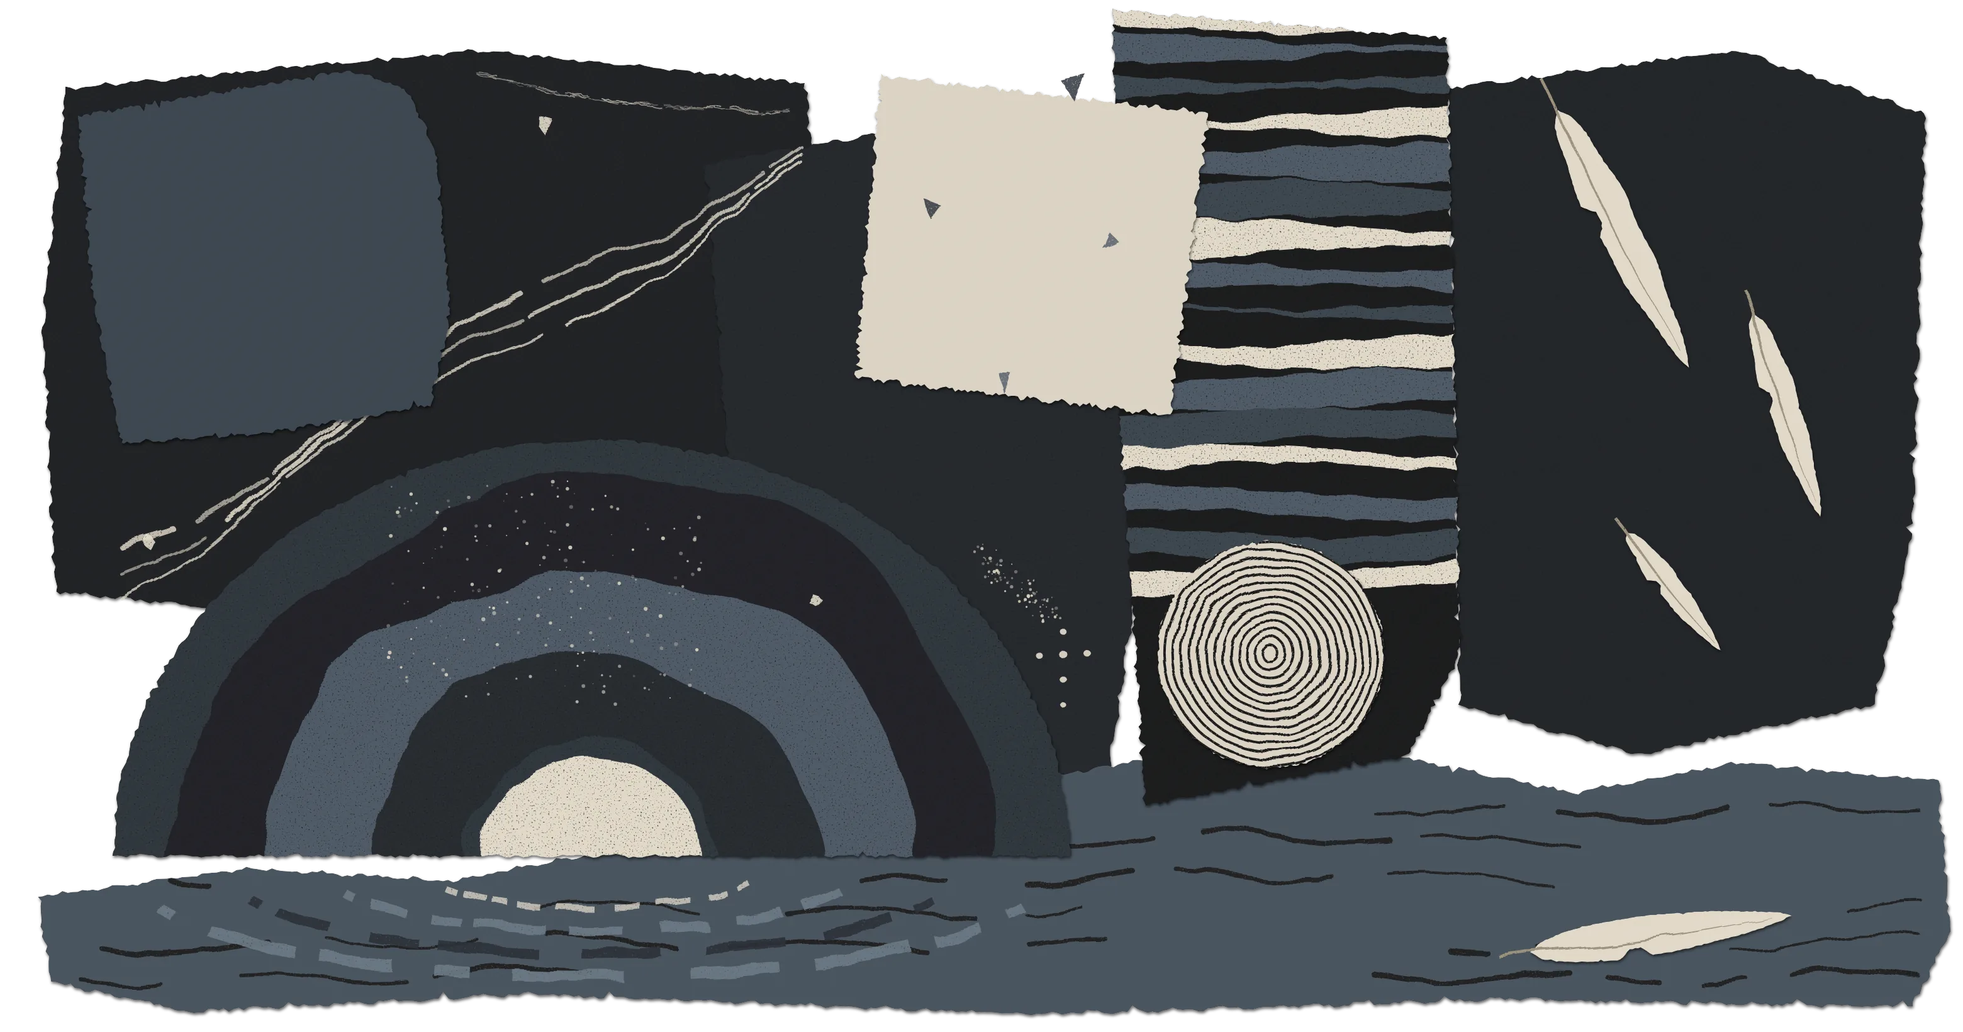
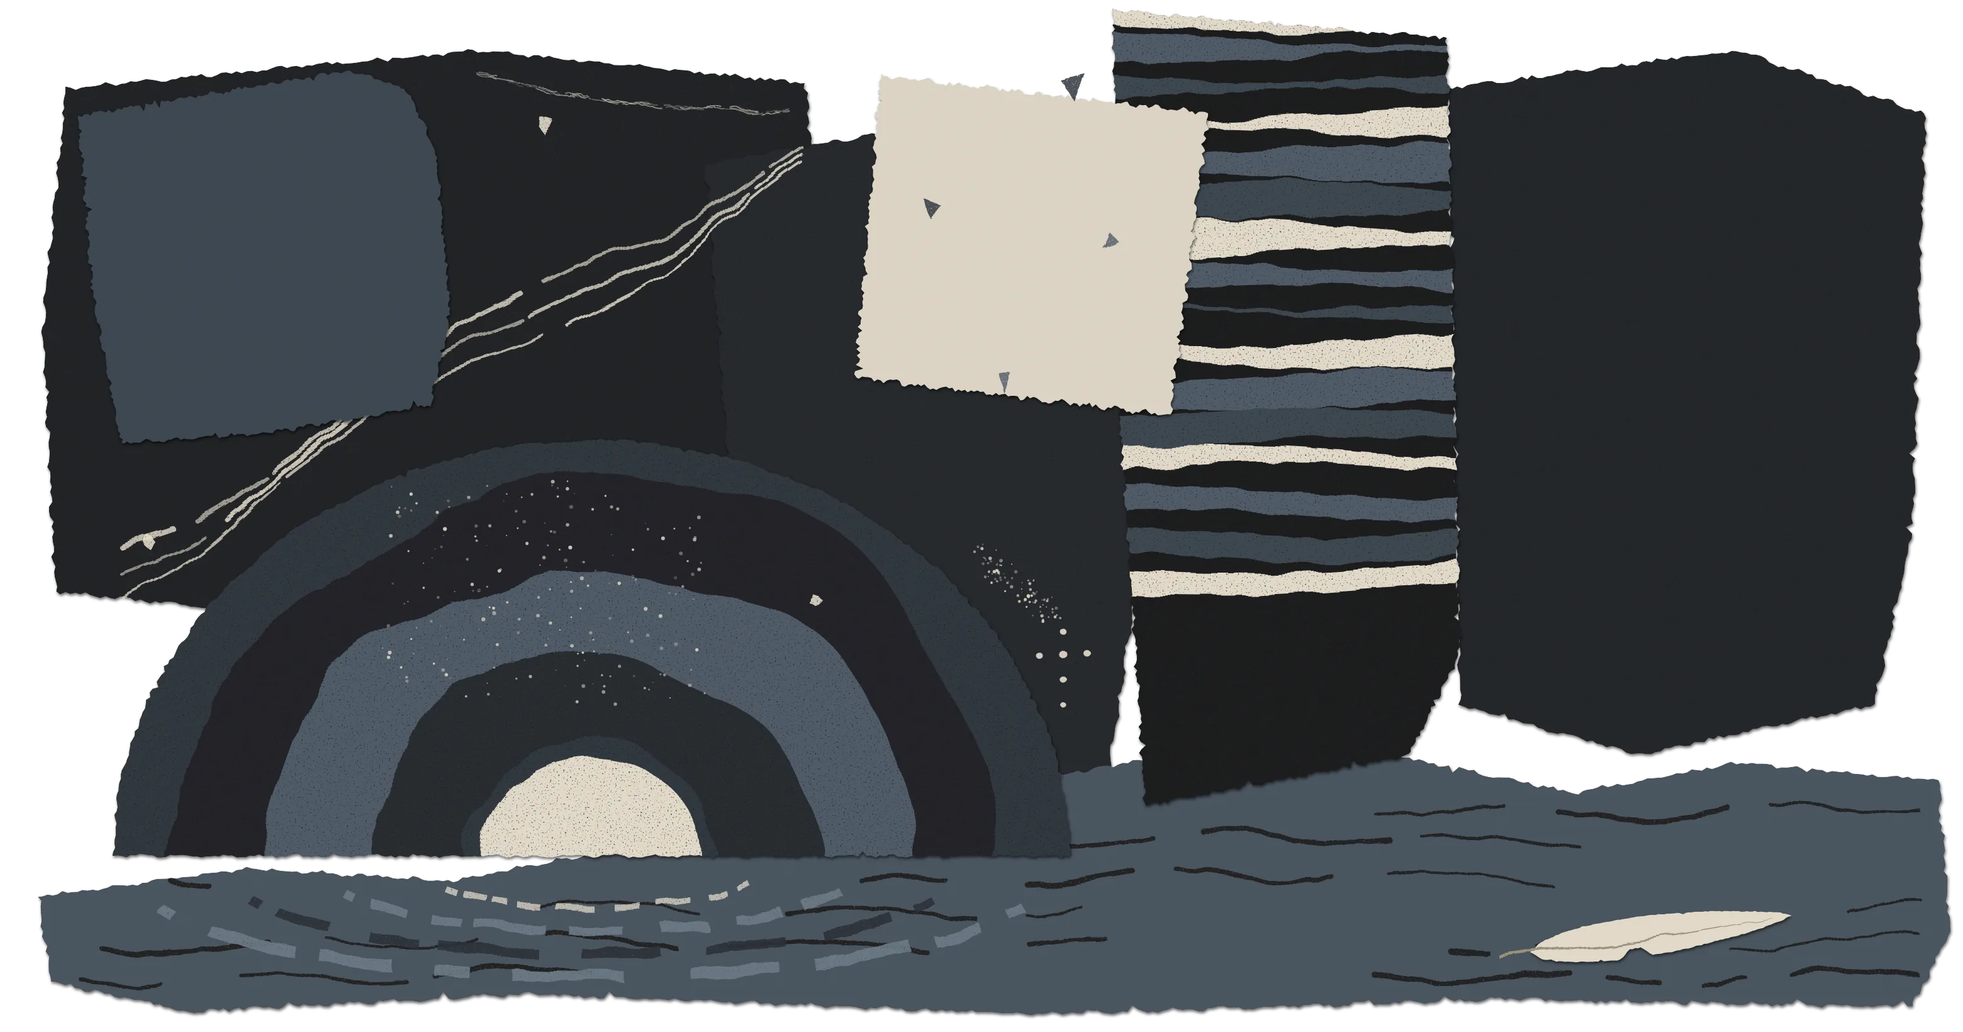
pliocene-coast: feathers drift onto the river, powder washes away
Two of the feathers now let go and drift down onto the river, sending
out hand-drawn rings of water as they land. Crumbled powder slides off
the rim of the dark rings into the river and dissolves there instead of
heaping up. The black and white disc turns like a record let go, and
again under the pointer. Replay puts all of it back.

Claude-Session: https://claude.ai/code/session_01Wb5bFrUxPpaySNQ4iWWfdK

Changed region(s): [[0.5907, 0.5287, 0.7151, 0.7463], [0.7772, 0.0933, 0.9327, 0.4976], [0.8083, 0.4976, 0.8705, 0.622]]

diff --git a/components/pliocene-coast/src/pliocene-coast.js b/components/pliocene-coast/src/pliocene-coast.js
@@ -3,7 +3,8 @@
  * A torn paper collage of what the Galactic Railroad might have left in the ground: bone chips,
  * a sand of stars, a coal-sack hole with a piece of amber at its floor, a railway that winds out
  * from one point and breaks off. When it comes on screen everything moves together for a few
- * seconds and settles; touch the bone chips and they keep crumbling into powder that stays.
+ * seconds and settles, the feathers drifting down onto the river; touch the bone chips and they crumble
+ * into powder that slides into the river and dissolves in rings of water.
  *
  * Usage:
  *   <script type="module" src="components/pliocene-coast/src/pliocene-coast.js"></script>
@@ -26,8 +27,11 @@ const FONT = 'https://fonts.googleapis.com/css2?family=EB+Garamond:wght@500&disp
 const W = 1560, H = 820;
 const INTRO = 8000;               // everything moves together this long, then settles
 const CHIPS = [[520, 200, 44], [600, 268, 36], [668, 330, 30], [724, 384, 22], [762, 424, 14]];
-const RINGS = { cx: 470, cy: 680, rx: 380, ry: 330 }; // the coal sack: powder settles on its rim
-const FLOOR = 640;
+const RINGS = { cx: 470, cy: 680, rx: 380, ry: 330 }; // the coal sack: powder lands on its rim and slides off into the river
+// where each feather comes to rest on the river, lying almost flat, and when it lets go (s) and how long it falls (s)
+// the first, longest feather stays on its sheet; the other two fall
+const DISC = { x: 1010, y: 520, r: 92 }; // the black and white rings: spun once when it comes into view, and again under the pointer
+const DRIFT = [null, { x: 1150, y: 690, a: -0.1, at: 0.6, fall: 10.5 }, { x: 1395, y: 788, a: -0.05, at: 2.2, fall: 9.5 }];
 
 
 /* shown beside the collage when it is opened full size; every line our own, nothing quoted */
@@ -38,8 +42,8 @@ const NOTES = {
     ['The coast', 'Halfway along the line they get off at a riverbank of crystal sand, where a professor is digging out the bones of an animal from more than a million years ago. Here that dig is the whole picture: chips of bone, strata, and the sand they lie in.'],
     ['The hole', 'Near the end of the journey there is a black hole in the sky that nothing comes back from. The big dark rings are that hole; at its floor is the one warm thing, a piece of amber, for the scorpion who wished its body could burn as a light for others.'],
     ['The railway', 'The line winds out from a single point and breaks off before it finishes, the way the journey does.'],
-    ['The river and the feathers', 'Birds are caught along the river and come apart in your hand like sweets. A few feathers are falling; one has reached the water, and under the rings the river holds their broken reflection.'],
-    ['How it moves', 'When it comes into view everything moves at once for a few seconds and then settles. Touch a bone chip and it crumbles into powder that stays where it falls. Replay puts it all back.'],
+    ['The river and the feathers', 'Birds are caught along the river and come apart in your hand like sweets. A few feathers fall onto the water, and under the rings the river holds their broken reflection.'],
+    ['How it moves', 'When it comes into view everything moves at once for a few seconds and then settles. The feathers let go one by one and drift down onto the river. Touch a bone chip and it crumbles; the powder slides off the rim into the river and is gone, in small rings of water. Replay puts it all back.'],
   ],
 };
 
@@ -64,7 +68,13 @@ function run(root) {
   function start(svg) {
     const NS = 'http://www.w3.org/2000/svg';
     const grow = svg.querySelector('.grow'), len = grow.getTotalLength();
-    const amber = svg.querySelector('.amin'), sand = svg.querySelector('.sand-in'), powder = svg.querySelector('.powder');
+    const amber = svg.querySelector('.amin'), sand = svg.querySelector('.sand-in'), powder = svg.querySelector('.powder'), ripples = svg.querySelector('.ripples');
+    const disc = svg.querySelector('.disc');
+    let spin = 0, turn = 0;
+    const feathers = [...svg.querySelectorAll('.feather')].filter((el, i) => DRIFT[i]).map(el => {
+      const d = DRIFT[[...svg.querySelectorAll('.feather')].indexOf(el)];
+      return { el, x: +el.dataset.x, y: +el.dataset.y, a: +el.dataset.a, dx: d.x, dy: d.y, da: d.a, at: d.at, fall: d.fall, landed: false };
+    });
     const chips = [...svg.querySelectorAll('.chip')].map((el, i) => {
       const [cx, cy, R] = CHIPS[i];
       el.style.transformBox = 'view-box'; el.style.transformOrigin = `${cx}px ${cy}px`;
@@ -75,7 +85,7 @@ function run(root) {
     if (reduce) { grow.style.strokeDashoffset = 0; return; }
     grow.style.strokeDashoffset = len;
 
-    let parts = [], heap = {};
+    let parts = [], rings = [];
     let t0 = null, last = 0, raf = 0, visible = false, px = -1e4, py = -1e4, ax = 0, ay = 0;
 
     const setChip = c => { c.el.style.transform = `scale(${(0.15 + 0.85 * c.life).toFixed(3)})`; c.el.style.opacity = c.life < 0.08 ? 0 : 1; };
@@ -85,23 +95,60 @@ function run(root) {
       el.setAttribute('fill', '#e2dac9');
       el.setAttribute('opacity', (0.45 + Math.random() * 0.5).toFixed(2));
       powder.appendChild(el);
-      parts.push({ el, x, y, vx: (Math.random() - 0.4) * 22, vy: Math.random() * 10, done: false });
+      parts.push({ el, x, y, vx: (Math.random() - 0.4) * 22, vy: Math.random() * 10, on: false, wet: 0, op: +el.getAttribute('opacity') });
     };
     const shed = (c, chance) => {
       if (Math.random() > chance) return;
       const a = Math.random() * Math.PI * 2;
       spawn(c.cx + Math.cos(a) * c.R * c.life * 0.9, c.cy + Math.sin(a) * c.R * c.life * 0.55);
     };
-    const surface = bin => ground(bin * 3) - (heap[bin] || 0);
-    const ground = x => {
-      const u = (x - RINGS.cx) / RINGS.rx;
-      return Math.abs(u) < 1 ? RINGS.cy - RINGS.ry * Math.sqrt(1 - u * u) - 2 : FLOOR;
+    const inside = x => Math.abs((x - RINGS.cx) / RINGS.rx) < 0.985;
+    const ground = x => { const u = (x - RINGS.cx) / RINGS.rx; return RINGS.cy - RINGS.ry * Math.sqrt(Math.max(0, 1 - u * u)) - 2; };
+    // a ring of water spreading out from where something touched the river
+    // a ring of water, drawn by hand: a few broken arcs of uneven weight that spread out and fade
+    const RIPPLE_INK = '#1d2126', RIPPLE_STYLE = 'cut';
+    const ripple = (x, y, size, count, life = 2.4, width = 1.3, gap = 0.45) => {
+      if (rings.length > 24 && size < 60) return;
+      for (let i = 0; i < count; i++) {
+        const g = document.createElementNS(NS, 'g');
+        g.setAttribute('opacity', 0);
+        // arcs on a unit circle, squashed later; each arc its own length, gaps between, a little wobble
+        let a0 = Math.random() * Math.PI * 2;
+        const end = a0 + Math.PI * 2;
+        while (a0 < end - 0.3) {
+          const a1 = Math.min(end, a0 + (RIPPLE_STYLE === 'cut' ? 0.35 + Math.random() * 0.9 : 0.12 + Math.random() * 0.22));
+          const pts = [];
+          for (let a = a0; a <= a1 + 1e-6; a += 0.06) {
+            const w = 1 + (Math.random() - 0.5) * 0.04 + Math.sin(a * 5 + i) * 0.02;
+            pts.push(`${(Math.cos(a) * w).toFixed(3)} ${(Math.sin(a) * w).toFixed(3)}`);
+          }
+          const seg = document.createElementNS(NS, 'path');
+          seg.setAttribute('d', 'M' + pts.join(' L'));
+          seg.setAttribute('fill', 'none');
+          seg.setAttribute('stroke', RIPPLE_STYLE === 'cut' ? RIPPLE_INK : '#7f8c97');
+          seg.setAttribute('stroke-linecap', 'round');
+          seg.setAttribute('vector-effect', 'non-scaling-stroke');
+          seg.setAttribute('stroke-width', (width * (RIPPLE_STYLE === 'cut' ? 1.3 : 2.2) * (0.6 + Math.random() * 0.8)).toFixed(2));
+          g.appendChild(seg);
+          a0 = a1 + 0.15 + Math.random() * (RIPPLE_STYLE === 'cut' ? 0.5 : 0.25);
+        }
+        ripples.appendChild(g);
+        rings.push({ el: g, x, y, size, life, age: -i * gap });
+      }
+    };
+    const placeFeather = (f, t) => {
+      // a slow fall that eases in and out, swinging from side to side less and less, turning to lie on the water
+      const e = t < 0.5 ? 2 * t * t : 1 - Math.pow(-2 * t + 2, 2) / 2;
+      const sway = Math.sin(t * Math.PI * 3.2) * (1 - t);
+      const x = f.x + (f.dx - f.x) * e + sway * 34, y = f.y + (f.dy - f.y) * e;
+      const rot = (f.a + (f.da - f.a) * e + sway * 0.35) * 180 / Math.PI - f.a * 180 / Math.PI;
+      f.el.setAttribute('transform', `translate(${(x - f.x).toFixed(1)} ${(y - f.y).toFixed(1)}) rotate(${rot.toFixed(2)} ${f.x} ${f.y})`);
     };
 
     function frame(now) {
       raf = 0;
       if (!visible) return;
-      if (t0 === null) t0 = now;
+      if (t0 === null) { t0 = now; spin = 110; }
       const dt = Math.min(0.05, (now - (last || now)) / 1000); last = now;
       const k = Math.min(1, Math.max(0, (now - t0) / INTRO));
       let busy = k < 1;
@@ -131,32 +178,59 @@ function run(root) {
         c.life = Math.max(0, c.life - 0.32 * dt * (30 / c.R));
         shed(c, 0.9); shed(c, 0.9); setChip(c); busy = true;
       }
-      // powder falls and stays where it lands
+      // powder falls onto the rim of the rings, slides down it into the river and dissolves there
       for (const p of parts) {
-        if (p.done) continue;
         busy = true;
-        p.vy += 260 * dt; p.vx *= 0.985; p.x += p.vx * dt; p.y += p.vy * dt;
-        const bin = Math.round(p.x / 3), floor = surface(bin);
-        if (p.y >= floor) {
-          // like sand, a grain on a steep heap rolls off to the lower side before it settles
-          let best = bin;
-          for (let j = -3; j <= 3; j++) if (j && surface(bin + j) - floor > 2.4 * Math.abs(j) && surface(bin + j) > surface(best)) best = bin + j;
-          if (best !== bin) { p.x = best * 3; p.y = Math.min(p.y, surface(best) - 0.5); p.vy = 0; }
-          else {
-            p.y = floor; p.done = true;
-            for (let j = -3; j <= 3; j++) heap[bin + j] = (heap[bin + j] || 0) + 0.45 * Math.exp(-j * j / 4);
-          }
+        if (p.wet) {
+          p.wet += dt; p.x += 6 * dt;
+          p.el.setAttribute('opacity', (p.op * Math.max(0, 1 - p.wet / 1.4)).toFixed(2));
+          if (p.wet > 1.4) { p.el.remove(); p.gone = true; continue; }
+        } else if (p.on) {
+          const dir = Math.sign(p.x - RINGS.cx) || 1;
+          p.vx = Math.min(140, Math.abs(p.vx) + 90 * dt) * dir;
+          p.x += p.vx * dt; p.y = ground(p.x);
+          if (!inside(p.x)) { p.wet = 0.001; p.y = RINGS.cy + 4 + Math.random() * 8; if (Math.random() < 0.12) ripple(p.x, p.y, 16, 1); }
+        } else {
+          p.vy += 260 * dt; p.vx *= 0.985; p.x += p.vx * dt; p.y += p.vy * dt;
+          if (inside(p.x) && p.y >= ground(p.x)) { p.on = true; p.y = ground(p.x); p.vx = 10; }
+          else if (!inside(p.x) && p.y >= RINGS.cy + 4) { p.wet = 0.001; if (Math.random() < 0.12) ripple(p.x, p.y, 16, 1); }
         }
         p.el.setAttribute('cx', p.x.toFixed(1)); p.el.setAttribute('cy', p.y.toFixed(1));
       }
+      if (parts.some(p => p.gone)) parts = parts.filter(p => !p.gone);
+      // the feathers let go one after another and drift down onto the river
+      const secs = (now - t0) / 1000;
+      for (const f of feathers) {
+        if (f.landed) continue;
+        busy = true;
+        const t = Math.min(1, Math.max(0, (secs - f.at) / f.fall));
+        placeFeather(f, t);
+        if (t >= 1) { f.landed = true; ripple(f.dx, f.dy + 4, 190, 4, 4.2, 1.9, 0.6); }
+      }
+      // the disc turns like a record let go: pushed while the pointer rests on it, slowing to a stop on its own
+      if (Math.hypot(px - DISC.x, py - DISC.y) < DISC.r) spin = Math.min(130, spin + 150 * dt);
+      spin *= Math.exp(-0.45 * dt);
+      if (spin > 0.4) { turn = (turn + spin * dt) % 360; disc.setAttribute('transform', `rotate(${turn.toFixed(2)} ${DISC.x} ${DISC.y})`); busy = true; }
+      else spin = 0;
+      // rings of water spread and fade
+      for (const r of rings) {
+        r.age += dt;
+        if (r.age < 0) { r.el.setAttribute('opacity', 0); continue; }
+        const q = r.age / r.life, rx = 6 + r.size * (1 - Math.pow(1 - q, 2));
+        r.el.setAttribute('transform', `translate(${r.x} ${r.y}) scale(${rx.toFixed(1)} ${(rx * 0.22).toFixed(1)})`);
+        r.el.setAttribute('opacity', Math.max(0, Math.min(1, q * 8) * Math.pow(1 - q, 1.3)).toFixed(2));
+        if (q >= 1) { r.el.remove(); r.gone = true; }
+      }
+      if (rings.length) { busy = true; rings = rings.filter(r => !r.gone); }
       if (busy || px > -1e3) raf = requestAnimationFrame(frame); else last = 0;
     }
     const wake = () => { if (!raf && visible) raf = requestAnimationFrame(frame); };
     // everything back to how it was before it came into view: chips whole, no powder, no railway yet
     replay = () => {
       for (const c of chips) { c.life = 1; setChip(c); }
-      powder.replaceChildren(); parts = []; heap = {};
-      grow.style.strokeDashoffset = len; ax = ay = 0;
+      powder.replaceChildren(); parts = []; ripples.replaceChildren(); rings = [];
+      for (const f of feathers) { f.landed = false; f.el.removeAttribute('transform'); }
+      grow.style.strokeDashoffset = len; ax = ay = 0; turn = 0; disc.removeAttribute('transform');
       t0 = null; last = 0; wake();
     };
 

diff --git a/react/src/PlioceneCoast.tsx b/react/src/PlioceneCoast.tsx
@@ -5,7 +5,7 @@ import { useEffect, type HTMLAttributes } from 'react';
 export type PlioceneCoastProps = HTMLAttributes<HTMLElement>;
 
 /**
- * A torn paper collage of what the Galactic Railroad left in the ground; touched bone chips crumble into powder.
+ * A torn paper collage of what the Galactic Railroad left in the ground; touched bone chips crumble into the river.
  * Renders the <pliocene-coast> Web Component; the piece itself lives in components/pliocene-coast/.
  */
 export function PlioceneCoast(props: PlioceneCoastProps) {

diff --git a/components/pliocene-coast/DESIGN.md b/components/pliocene-coast/DESIGN.md
@@ -1,7 +1,7 @@
 ---
 version: alpha
 name: Pliocene Coast
-description: A torn paper collage of what the Galactic Railroad might have left in the ground; bone chips that crumble into powder when touched, feathers falling onto a river.
+description: A torn paper collage of what the Galactic Railroad might have left in the ground; bone chips that crumble into powder and wash into a river, feathers drifting down onto the water.
 ---
 
 # Pliocene Coast
@@ -23,7 +23,7 @@ Nothing is labelled and no line of the book appears. The places are only hinted 
 | Five dots on the middle sheet | The Northern Cross |
 | A long blue grey river along the bottom, slit with ripples | The river Campanella goes into |
 | The broken arcs on the river under the rings | The dark hole and its amber, reflected and cut up by the water |
-| White feathers falling on the right, one afloat on the river | The birds the bird catcher gathers from the sky |
+| White feathers on the right, two of which drift down onto the river | The birds the bird catcher gathers from the sky |
 | The concentric scrap, lower right | A walnut fossil found on the shore |
 
 When it comes into view everything moves at once for eight seconds and settles. After that nothing moves on its own; only what the pointer touches changes, and what it changes stays.
@@ -74,7 +74,7 @@ The collage has no text. The notes in the full size view set the title, Nokto de
 
 ## Layout
 
-One collage drawn at 1560 × 820 and scaled to the width it is given. The outline is not a rectangle: two dark sheets step down from left to right on the page's own paper, the strata strip stands above them, a third dark sheet with the feathers sits on the right, the rings sit across the bottom, and a thin river strip runs under everything along the foot, its top edge torn uneven.
+One collage drawn at 1560 × 820 and scaled to the width it is given. The outline is not a rectangle: two dark sheets step down from left to right on the page's own paper, the strata strip stands above them, a third dark sheet sits on the right, where the feathers start, the rings sit across the bottom, and a thin river strip runs under everything along the foot, its top edge torn uneven.
 
 <details><summary>Tokens</summary>
 
@@ -102,23 +102,23 @@ All still paper is baked into `assets/collage.webp` (3120 × 1640, transparent a
 
 ### Coming into view
 
-Eight seconds, all at once: the railway winds out from its first point and stops past the break, the smallest bone chip crumbles to nothing and the next one starts to, the powder falls and settles on the rim of the dark rings, the sand sinks a few pixels, the light inside the amber shifts and comes back. Then it rests.
+All at once: the railway winds out from its first point and stops past the break, the smallest bone chip crumbles to nothing and the next one starts to, the sand sinks a few pixels, the light inside the amber shifts and comes back, and two of the three feathers on the right let go one after another and drift down, swaying less and less, until they lie on the river. Each one sends out four rings of water as it lands, drawn by hand like the slits in the river: broken arcs of uneven weight in the same dark ink, spreading and fading over about four seconds. The black and white disc on the strata turns like a record let go, about two thirds of a turn, slowing to a stop. The rest takes eight seconds; the last feather lands at about twelve. Then it rests.
 
 ### Touch
 
-Leave the pointer on a bone chip and it wears away into powder that falls and heaps up on the rim; take the pointer away and it stops where it is. Nothing grows back. Near the amber, its inner light moves a pixel or two with the pointer. Nothing runs while the piece is still, or off screen.
+Leave the pointer on a bone chip and it wears away into powder. The powder falls onto the rim of the dark rings, slides down it into the river, and fades out there in small rings of water; take the pointer away and it stops where it is. Nothing grows back. Near the amber, its inner light moves a pixel or two with the pointer. Rest the pointer on the black and white disc and it is pushed round again, then slows to a stop when the pointer leaves. Nothing runs while the piece is still, or off screen.
 
-With reduced motion the railway is shown whole, and nothing moves.
+With reduced motion the railway is shown whole, the feathers stay on their sheet, and nothing moves.
 
 ### Full size
 
-Clicking the collage opens it over a dimmed page with no rectangle behind its torn edge, and notes beside it (under it on a phone) on the book, the 1985 film, and what each part of the collage stands for; the notes are our own words. It keeps working there: bone chips still crumble under the pointer. Replay puts everything back as it was before it came into view (chips whole, no powder, no railway) and plays the eight seconds again. There is only one piece, so there is no Prev or Next. Esc, Close or a click outside closes it.
+Clicking the collage opens it over a dimmed page with no rectangle behind its torn edge, and notes beside it (under it on a phone) on the book, the 1985 film, and what each part of the collage stands for; the notes are our own words. It keeps working there: bone chips still crumble under the pointer. Replay puts everything back as it was before it came into view (chips whole, no powder, no railway, the two feathers back on their sheet) and plays the eight seconds again. There is only one piece, so there is no Prev or Next. Esc, Close or a click outside closes it.
 
 ## Do's and Don'ts
 
 - Do keep it one collage of cut paper; don't add cards, grids or labels.
 - Don't write any text on it, from the book or our own.
 - Do keep amber to the one piece.
-- Don't let anything loop; change only what was touched, and keep it changed.
+- Don't let anything loop; change only what was touched, and keep it changed. The powder is the exception: it is carried off by the river.
 - Don't draw literal things from the book (trains, birds, apples): hint by shape only.
 - Don't stick small pieces flat on the open river; they read as stickers.

diff --git a/README.md b/README.md
@@ -18,7 +18,7 @@ Pieces that start from a film, a book or a record.
 <table>
 <tr>
 <td width="112"><a href="https://tinyconsoles.vercel.app/#pliocene-coast"><img src="components/pliocene-coast/assets/thumb.webp" alt="pliocene-coast" width="96"></a></td>
-<td><b>08 · <a href="https://tinyconsoles.vercel.app/#pliocene-coast"><code>&lt;pliocene-coast&gt;</code></a></b><br>A torn paper collage of what the Galactic Railroad left in the ground; touched bone chips crumble into powder that stays.<br><sub>collage · torn paper · fossil · <a href="components/pliocene-coast/assets/preview.webp">preview</a> · <a href="components/pliocene-coast/DESIGN.md">design notes</a></sub></td>
+<td><b>08 · <a href="https://tinyconsoles.vercel.app/#pliocene-coast"><code>&lt;pliocene-coast&gt;</code></a></b><br>A torn paper collage of what the Galactic Railroad left in the ground; touched bone chips crumble and wash into the river.<br><sub>collage · torn paper · fossil · <a href="components/pliocene-coast/assets/preview.webp">preview</a> · <a href="components/pliocene-coast/DESIGN.md">design notes</a></sub></td>
 </tr>
 <tr>
 <td width="112"><a href="https://tinyconsoles.vercel.app/#ma-kasuri"><img src="components/ma-kasuri/assets/thumb.webp" alt="ma-kasuri" width="96"></a></td>
